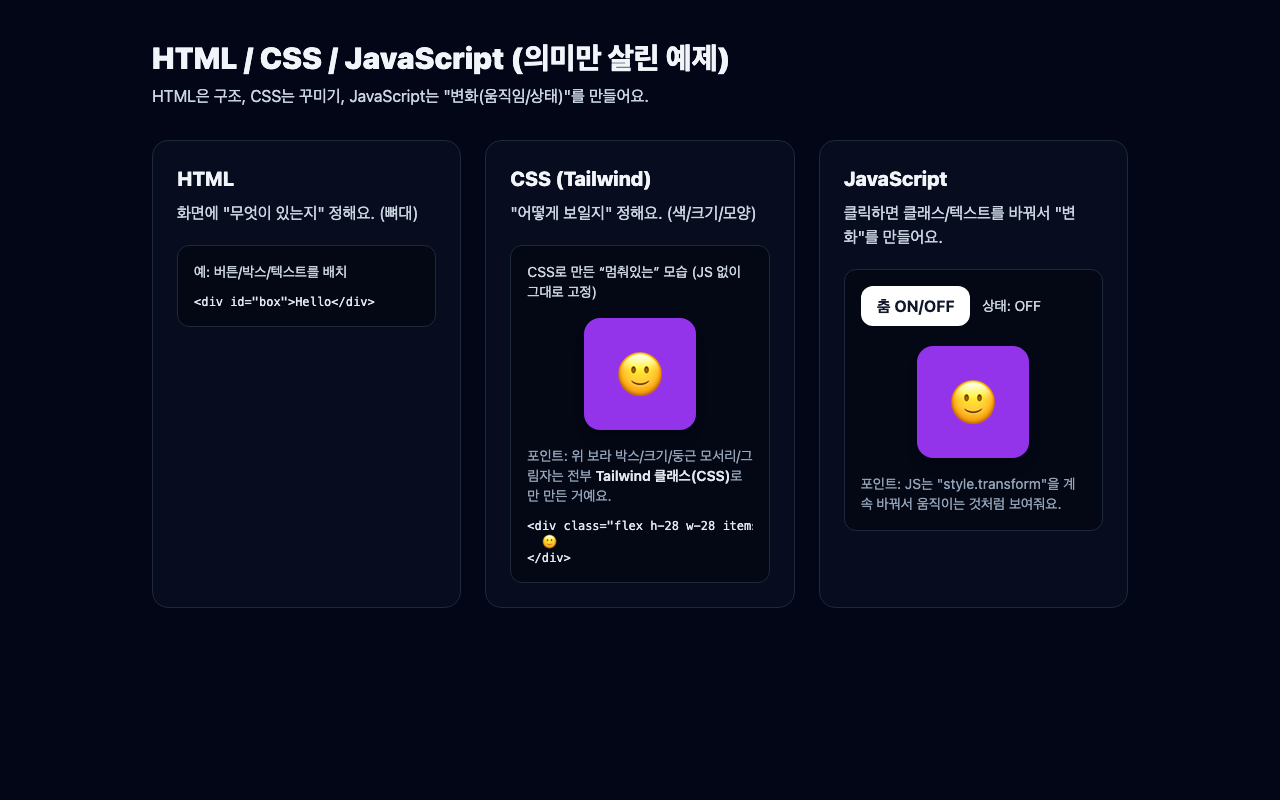
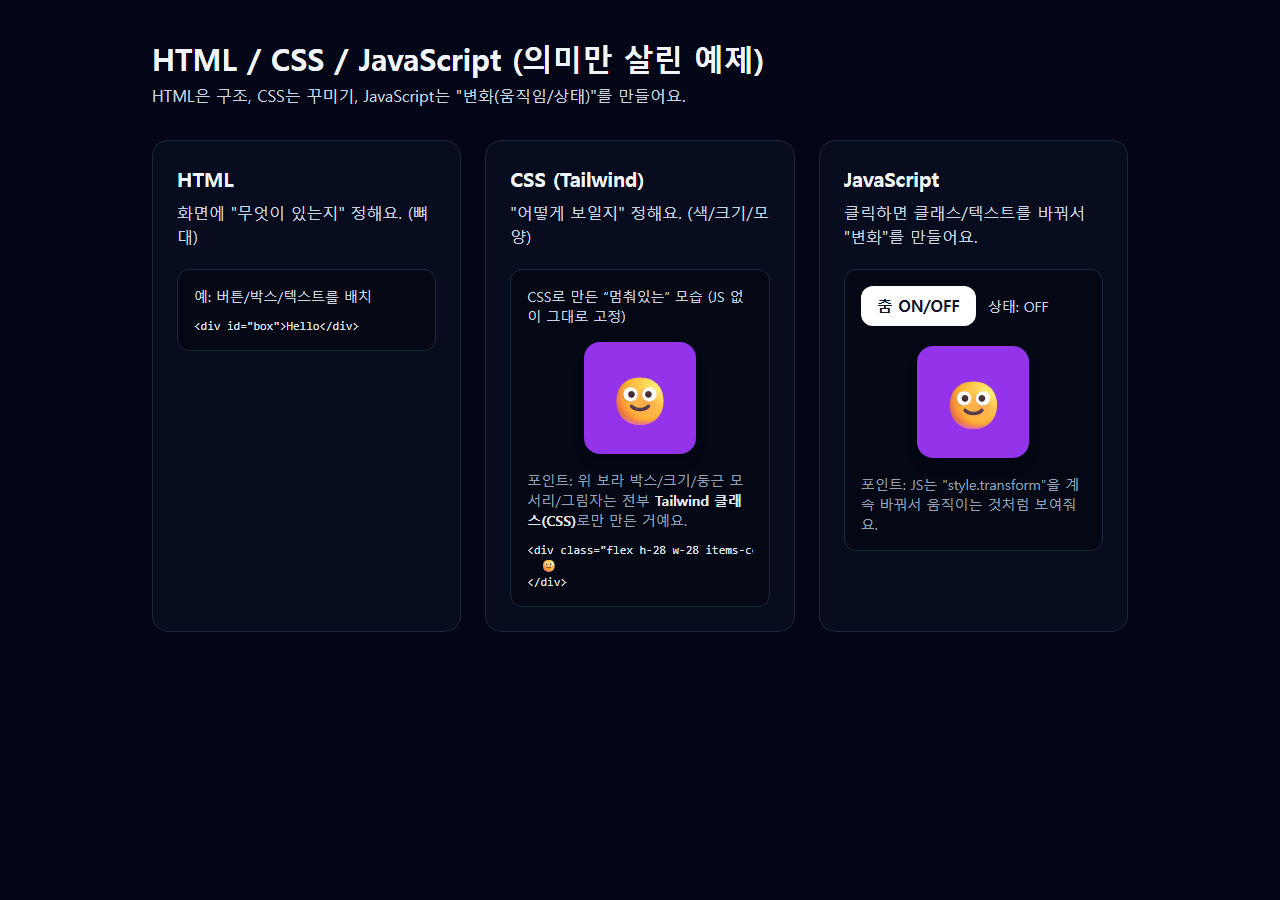
Refresh 0604 screenshots and expand README gallery
Regenerate all 15 0604 mini-app screenshots, copy each into its
app folder, fix the swapped bmi/usd numbering, and expand the
README gallery to cover every app.

diff --git a/README.md b/README.md
@@ -49,31 +49,47 @@ HTML/CSS/JavaScript 기본기를 다지며 만든 작은 도구들입니다.
 
 ### 0604 — 웹 기초 & 미니 앱
 
-| BMI 계산기 | 환율 변환기 | 나이 계산기 |
+| 01 기초 | 02 HTML/CSS/JS | 03 JS |
 |:---:|:---:|:---:|
-| ![BMI](0604/screenshots/05_05-bmi_index.html.png) | ![USD](0604/screenshots/04_06-usd_index.html.png) | ![Age](0604/screenshots/07_08-age_index.html.png) |
+| ![01](0604/screenshots/01_01_index.html.png) | ![02](0604/screenshots/02_02-html-css-js_index.html.png) | ![03](0604/screenshots/03_03-js_index.html.png) |
 
-| D-day 계산기 | 더치페이 | QR 코드 생성기 |
+| BMI 계산기 | 환율 변환기 | 컬러 도구 |
 |:---:|:---:|:---:|
-| ![Dday](0604/screenshots/08_09-dday_index.html.png) | ![Dpay](0604/screenshots/09_10-dpay_index.html.png) | ![QR](0604/screenshots/11_13-Qrmake_qr-generator.html.png) |
+| ![BMI](0604/screenshots/04_05-bmi_index.html.png) | ![USD](0604/screenshots/05_06-usd_index.html.png) | ![Color](0604/screenshots/06_07-Color_index.html.png) |
 
-| 세금 계산기 | PDF 생성기 | 밈 생성기 |
+| 나이 계산기 | D-day 계산기 | 더치페이 |
 |:---:|:---:|:---:|
-| ![Tax](0604/screenshots/10_11-duryTax_tax-calculator.html.png) | ![PDF](0604/screenshots/13_14-PDFmake_index.html.png) | ![Meme](0604/screenshots/14_15-memeMake_index.html.png) |
+| ![Age](0604/screenshots/07_08-age_index.html.png) | ![Dday](0604/screenshots/08_09-dday_index.html.png) | ![Dpay](0604/screenshots/09_10-dpay_index.html.png) |
+
+| 세금 계산기 | QR 코드 생성기 | QR 생성기 Pro |
+|:---:|:---:|:---:|
+| ![Tax](0604/screenshots/10_11-duryTax_tax-calculator.html.png) | ![QR](0604/screenshots/11_13-Qrmake_qr-generator.html.png) | ![QRPro](0604/screenshots/12_13-Qrmake_qr-generator-pro.html.png) |
+
+| PDF 생성기 | 밈 생성기 | 밈 생성기 (Excel) |
+|:---:|:---:|:---:|
+| ![PDF](0604/screenshots/13_14-PDFmake_index.html.png) | ![Meme](0604/screenshots/14_15-memeMake_index.html.png) | ![MemeExcel](0604/screenshots/15_15-memeMake_index-excel.html.png) |
 
 ### 0609 — API 연동 & AI 웹앱
 
 | AI 별명 생성기 | AI 꿈 해몽 | 코인 시세 티커 |
 |:---:|:---:|:---:|
-| ![Nickname](0609NewTesttt/homework/ai-nickname-generator/%EB%B3%84%EB%AA%85%EB%A8%B8%EC%8B%A0.png) | ![Dream](0609NewTesttt/homework/dream-interpreter/%EA%BF%88%20%ED%95%B4%EB%AA%BD.png) | ![Coin](0609NewTesttt/homework/coin-ticker/%EC%BD%94%EC%9D%B8.png) |
+| ![Nickname](0609NewTesttt/_ui-screenshots/ai-nickname-generator.png) | ![Dream](0609NewTesttt/_ui-screenshots/dream-interpreter.png) | ![Coin](0609NewTesttt/_ui-screenshots/coin-ticker.png) |
 
-| 날씨 옷차림 추천 | AI 이미지 스튜디오 | AI 위키 매트릭스 |
+| AI 이미지 스튜디오 | AI 위키 매트릭스 | 멘탈 어시스턴트 |
 |:---:|:---:|:---:|
-| ![Weather](0609NewTesttt/homework/weather-outfit/%EB%82%A0%EC%94%A8%EC%98%B7%EC%B0%A8%EB%A6%BC.png) | ![Image](0609NewTesttt/homework/ai-image-studio2/ai-image.png) | ![Wiki](0609NewTesttt/homework/ai-wiki-matrix/wiki.png) |
+| ![Image](0609NewTesttt/_ui-screenshots/ai-image-studio2.png) | ![Wiki](0609NewTesttt/_ui-screenshots/ai-wiki-matrix.png) | ![Mental](0609NewTesttt/_ui-screenshots/my_mental_assistant.png) |
 
-| 챗봇 서버 | 1:1 AI 튜터 | NASA 앱 |
+| 챗봇 서버 | 1:1 AI 튜터 | AI 튜터 서버 |
 |:---:|:---:|:---:|
-| ![Chatbot](0609NewTesttt/homework/my-chatbot-server/my_chatbot.png) | ![Tutor](0609NewTesttt/my-ai-tutor-server/my_tuto_screenshot.png) | ![NASA](0609NewTesttt/Goblin/NASA_app/nasa-app_screenshot.png) |
+| ![Chatbot](0609NewTesttt/_ui-screenshots/my-chatbot-server.png) | ![Tutor](0609NewTesttt/_ui-screenshots/my-ai-tutor.png) | ![TutorServer](0609NewTesttt/_ui-screenshots/my-ai-tutor-server.png) |
+
+| NASA 앱 | 날씨 앱 | 포켓몬 앱 |
+|:---:|:---:|:---:|
+| ![NASA](0609NewTesttt/_ui-screenshots/goblin-nasa.png) | ![Weather](0609NewTesttt/_ui-screenshots/goblin-weather.png) | ![Pokemon](0609NewTesttt/_ui-screenshots/poketm-on.png) |
+
+| 포켓몬 지도 | API 연동 실습 | 서버 실습 |
+|:---:|:---:|:---:|
+| ![PokemonMap](0609NewTesttt/_ui-screenshots/poketm-on-map.png) | ![API](0609NewTesttt/_ui-screenshots/my-api-2.png) | ![Server](0609NewTesttt/_ui-screenshots/myServer.png) |
 
 ## 🛠 사용 기술
 - **프론트엔드**: HTML, CSS, JavaScript (일부 CDN 기반 React + Tailwind)
